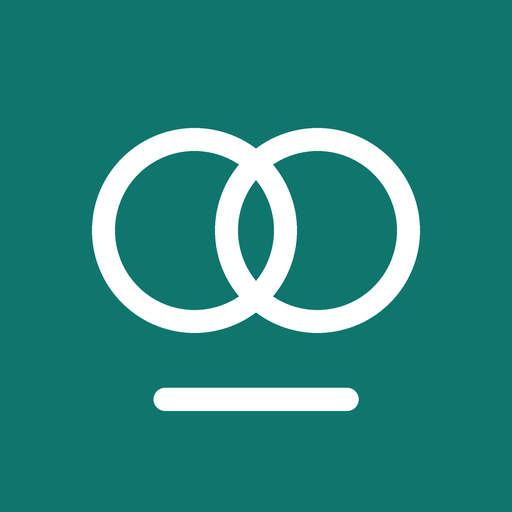
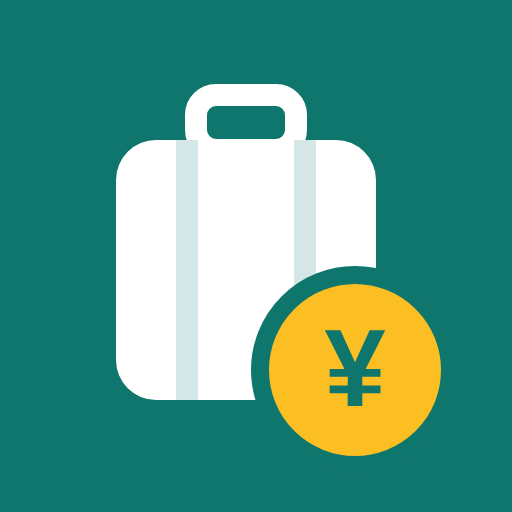
換 App 圖示：行李箱＋日圓硬幣
原本的兩個圓圈看不出是旅行分帳。附上 SVG 原稿、Android 用的 maskable 版本，
以及重新產生 PNG 的 tools/render_icons.py。

Claude-Session: https://claude.ai/code/session_01XaoN3XfaddxeiLcTnqYjg7

Changed region(s): [[0.1562, 0.1562, 0.875, 0.9062]]

diff --git a/sw.js b/sw.js
@@ -1,6 +1,6 @@
 // 離線殼：App 檔案與 Firebase SDK 存在手機上，沒網路也能打開。
 // 帳目資料由 Firestore 自己的離線快取處理，這裡不攔截 Firestore 的連線。
-const VERSION = 'tripsplit-v1.2.7';
+const VERSION = 'tripsplit-v1.2.8';
 const SHELL = [
   './',
   './index.html',
@@ -16,6 +16,7 @@ const SHELL = [
   './icons/icon-192.png',
   './icons/icon-512.png',
   './icons/apple-touch-icon.png',
+  './icons/icon-maskable-512.png',
 ];
 const SDK = 'https://www.gstatic.com/firebasejs/13.2.0/';
 const SDK_FILES = ['firebase-app.js', 'firebase-auth.js', 'firebase-firestore.js', 'firebase-ai.js', 'firebase-app-check.js'].map((f) => SDK + f);

diff --git a/index.html b/index.html
@@ -10,8 +10,8 @@
   <meta name="apple-mobile-web-app-title" content="分帳">
   <title>tripsplit 旅行分帳</title>
   <link rel="manifest" href="manifest.webmanifest">
-  <link rel="icon" href="icons/icon-192.png">
-  <link rel="apple-touch-icon" href="icons/apple-touch-icon.png">
+  <link rel="icon" href="icons/icon-192.png?v=2">
+  <link rel="apple-touch-icon" href="icons/apple-touch-icon.png?v=2">
   <link rel="stylesheet" href="css/style.css">
 </head>
 <body>

diff --git a/js/config.js b/js/config.js
@@ -17,4 +17,4 @@ export const AI_MODELS = ['gemini-3.6-flash', 'gemini-2.5-flash', 'gemini-2.5-fl
 // type 'v3'（reCAPTCHA v3 網站金鑰）或 'enterprise'（reCAPTCHA Enterprise 金鑰）；key 空白代表還沒設定。
 export const APP_CHECK = { type: 'enterprise', key: '6LcZvRIuAAAAAGdVlakrp6akdS6enEiLgaWLsKOJ' };
 
-export const APP_VERSION = '1.2.7';
+export const APP_VERSION = '1.2.8';

diff --git a/tools/render_icons.py b/tools/render_icons.py
@@ -1,0 +1,23 @@
+# 從 icons/icon.svg 重新產生 App 圖示 PNG。用法：python3 tools/render_icons.py
+# icon-maskable.svg 是同一張圖縮到 76%（Android 會裁成圓形，要留安全邊界），改 icon.svg 時一起改。
+import pathlib
+from playwright.sync_api import sync_playwright
+from PIL import Image
+
+d = pathlib.Path(__file__).resolve().parents[1] / 'icons'
+jobs = [('icon.svg', 180, 'apple-touch-icon.png'), ('icon.svg', 192, 'icon-192.png'),
+        ('icon.svg', 512, 'icon-512.png'), ('icon-maskable.svg', 512, 'icon-maskable-512.png')]
+with sync_playwright() as p:
+    b = p.chromium.launch(executable_path='/opt/pw-browsers/chromium', args=['--no-sandbox'])
+    for src, size, out in jobs:
+        html = d / f'_render_{size}.html'
+        html.write_text(f'<html><body style="margin:0"><img src="{src}" style="width:{size}px;height:{size}px;display:block"></body></html>')
+        pg = b.new_page(viewport={'width': size, 'height': size})
+        pg.goto(html.as_uri())
+        pg.wait_for_function('document.images[0].complete && document.images[0].naturalWidth > 0')
+        pg.screenshot(path=str(d / out))
+        pg.close()
+        html.unlink()
+        Image.open(d / out).convert('RGB').save(d / out, optimize=True)  # iOS 圖示不要透明
+        print(out, size)
+    b.close()

diff --git a/CLAUDE.md b/CLAUDE.md
@@ -45,6 +45,7 @@
 - iPhone 主畫面 App 要「滑掉重開兩次」才會用到新版（第一次在背景更新）。
 - `initializeAuth` 必須帶 `popupRedirectResolver`，否則 Google 登入直接丟 `auth/argument-error`。用子類別關掉 `_shouldInitProactively`，避免 iOS 啟動時連網路拖慢離線開 App。畫面測試用 mock，抓不到這類 SDK 設定錯誤。
 - 連結 Google 用 **redirect**（`linkWithRedirect` ＋ 啟動時 `getRedirectResult`）。popup 在 iOS 主畫面 App 會開到 Safari，儲存空間不同，App 收不到結果（1.2.6 實測失敗）。redirect 要求登入元件與 App 同網域，所以 `authDomain` 是 `keyw007.github.io`，登入元件放在 `keyw007/keyw007.github.io` repo 的 `__/auth/`，Google Cloud OAuth 用戶端已加轉址 `https://keyw007.github.io/__/auth/handler`。
+- App 圖示：原稿 `icons/icon.svg`（行李箱＋日圓硬幣），`icons/icon-maskable.svg` 是縮到 76% 的版本。改完執行 `python3 tools/render_icons.py` 產生 PNG，並把 `index.html`、`manifest.webmanifest` 裡的 `?v=` 加一。iPhone 主畫面圖示是加入當下存下來的，要刪掉主畫面 App 再重新加入才會換。
 - iOS 主畫面 App 與 Safari 分頁的儲存空間是分開的（匿名帳號不同），Google 綁定要在主畫面 App 裡做。
 
 ## 測試
